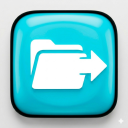
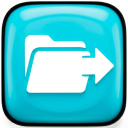
Fix asset embedding: add PRE_BUILD .rc regeneration, build.ps1 -RC, update docs

diff --git a/docs/IMPLEMENTATION.md b/docs/IMPLEMENTATION.md
@@ -82,16 +82,46 @@ All image assets are embedded directly into the executable via a Windows resourc
 
 **Resource script generation:**
 
+The `.rc` file is generated from `resources/FileMove.rc.in` by a CMake `add_custom_command` that depends on all asset files. A `PRE_BUILD` command on the `FileMove` target regenerates the `.rc` before every build, ensuring asset file changes are always picked up by the resource compiler.
+
 ```cmake
-set(FILEMOVE_ASSETS_DIR "${CMAKE_SOURCE_DIR}/assets")
-configure_file(
-    resources/FileMove.rc.in
-    ${CMAKE_BINARY_DIR}/FileMove.rc
-    @ONLY
+set(FILEMOVE_ASSET_FILES
+    assets/icons/FileMove-icon.ico
+    assets/images/about-image.png
+    assets/images/green-check.png
+    assets/images/red-x.png
+    assets/images/orange-question.png
+)
+
+add_custom_command(
+    OUTPUT ${CMAKE_BINARY_DIR}/FileMove.rc
+    COMMAND ${CMAKE_COMMAND}
+        -DFILEMOVE_ASSETS_DIR="${FILEMOVE_ASSETS_DIR}"
+        -DFILEMOVE_SOURCE_DIR="${CMAKE_SOURCE_DIR}"
+        -DFILEMOVE_BINARY_DIR="${CMAKE_BINARY_DIR}"
+        -P "${CMAKE_SOURCE_DIR}/resources/GenerateRc.cmake"
+    DEPENDS
+        resources/FileMove.rc.in
+        resources/GenerateRc.cmake
+        ${FILEMOVE_ASSET_FILES}
+    MAIN_DEPENDENCY resources/FileMove.rc.in
+    COMMENT "Generating FileMove.rc from assets"
+)
+
+add_custom_target(generate_rc DEPENDS ${CMAKE_BINARY_DIR}/FileMove.rc)
+
+add_custom_command(
+    TARGET FileMove PRE_BUILD
+    COMMAND ${CMAKE_COMMAND}
+        -DFILEMOVE_ASSETS_DIR="${FILEMOVE_ASSETS_DIR}"
+        -DFILEMOVE_SOURCE_DIR="${CMAKE_SOURCE_DIR}"
+        -DFILEMOVE_BINARY_DIR="${CMAKE_BINARY_DIR}"
+        -P "${CMAKE_SOURCE_DIR}/resources/GenerateRc.cmake"
+    COMMENT "Regenerating FileMove.rc from assets"
 )
 ```
 
-The `.rc` file is generated from `resources/FileMove.rc.in` with `@FILEMOVE_ASSETS_DIR@` replaced by the actual source path. The Windows resource compiler embeds the assets into the final `.exe`.
+`resources/GenerateRc.cmake` reads the `.rc.in` template, substitutes `@FILEMOVE_ASSETS_DIR@` with the actual source path, and writes the output `.rc`. The `generate_rc` custom target can also be invoked standalone via `cmake --build build --target generate_rc` or `.\build.ps1 -RC`.
 
 **Embedded resources:**
 
@@ -141,12 +171,13 @@ FileMove/
 │       ├── cmdline_parser.h/cpp      # (Phase 2) CLI argument parsing
 │       └── logging.h/cpp             # (Phase 2) Debug console + log file
 ├── resources/
-│   └── FileMove.rc.in                # (Phase 8) Resource script template
+│   ├── FileMove.rc.in                # (Phase 8) Resource script template
+│   └── GenerateRc.cmake              # (Phase 8) CMake script for .rc regeneration
 ├── third-party/
 │   └── nlohmann/
 │       └── json.hpp                  # nlohmann/json v3.11.3 (header-only)
 ├── tests/
-│   └── test_harness.cpp              # (Phase 7) Unit tests (189 tests)
+│   └── test_harness.cpp              # (Phase 7) Unit tests (308 tests)
 ├── assets/
 │   ├── icons/
 │   │   ├── FileMove-icon.ico         # Application icon (embedded at build)
@@ -1094,7 +1125,7 @@ All assets are embedded into the executable at build time via a Windows resource
 **Run:** `build/Release/test_harness.exe`
 **CMake:** `ctest --config Release`
 
-### Test Coverage (189 tests)
+### Test Coverage (308 tests)
 
 **cmdline_parser (45 tests):**
 - Empty command line, valid/invalid `/D` values (MV, CP, case insensitive)
@@ -1137,6 +1168,35 @@ All assets are embedded into the executable at build time via a Windows resource
 - Directory move disabled (rejects directories)
 - Directory move enabled (expands directories recursively)
 
+**settings_persistence (20 tests):**
+- `preserveDirectoryStructure` and `createEmptyDirectories` save/load round-trip
+- Default values for new and empty JSON files
+- Legacy JSON without new settings keys loads with defaults
+
+**copy_vs_move_mode (15 tests):**
+- CP and MV mode entry creation and source file handling
+- Mid-session mode changes reflected in new queue entries
+
+**preserve_directory_structure (40 tests):**
+- Destination path prefixing with structure enabled/disabled
+- Nested directory structure preservation
+- Multiple sources and destinations with structure
+
+**create_empty_directories (35 tests):**
+- Leaf empty directory detection and creation
+- Nested empty directory chains
+- Mixed content directories
+- Disabled mode skips empty directory creation
+
+**find_empty_directories (15 tests):**
+- Deep nesting, empty parent/child directories
+- Multiple separate empty directories in a tree
+- Always recurses into subdirectories before checking emptiness
+
+**source_dest_conflict_structure (8 tests):**
+- File already at structured destination path
+- No-conflict cases with structure preservation
+
 ### Bugs Fixed During Testing
 
 1. **`EnsureDirectoryExists` logic error** — `_waccess` return value was negated incorrectly (`!_waccess()` instead of `_waccess() != 0`), preventing directory creation
@@ -1156,11 +1216,13 @@ All image assets are embedded into the executable at build time via a Windows re
 
 **New files:**
 - `resources/FileMove.rc.in` — Resource script template with `@FILEMOVE_ASSETS_DIR@` macro
+- `resources/GenerateRc.cmake` — CMake script that reads `.rc.in`, substitutes asset paths, and writes `.rc`
 - `src/resources/resource_ids.h` — Shared resource ID definitions (101, 201-204)
 - `src/resources/resource_loader.h/cpp` — `LoadEmbeddedIcon()` and `LoadEmbeddedPng()` helpers
 
 **Modified files:**
-- `CMakeLists.txt` — Added `configure_file` for .rc generation, added resource_loader.cpp and generated .rc to sources, removed `POST_BUILD` asset copy
+- `CMakeLists.txt` — Added `add_custom_command` with asset file dependencies for .rc regeneration, `generate_rc` custom target, `PRE_BUILD` command to regenerate .rc before every build, `resource_loader.cpp` and generated `.rc` to sources, removed `POST_BUILD` asset copy
+- `build.ps1` — Added `-RC` switch to regenerate .rc standalone
 - `main_window.cpp` — Icon loaded via `LoadEmbeddedIcon()` instead of `LoadImageW(LR_LOADFROMFILE)`
 - `about.cpp` — About image loaded via `LoadEmbeddedPng(IDR_ABOUT_IMAGE)` instead of `Image::FromFile()`
 - `group_editor.cpp` — 3-state icons loaded via `LoadEmbeddedPng()` instead of `Image::FromFile()`
@@ -1169,4 +1231,5 @@ All image assets are embedded into the executable at build time via a Windows re
 - `.ico` is embedded as a standard `ICON` resource, so Windows Explorer displays it automatically
 - PNG images are embedded as `RT_RCDATA` resources, loaded at runtime via `IStream` + `Gdiplus::Image::FromStream()`
 - `WIN32_LEAN_AND_MEAN` excludes `<objbase.h>`, so `resource_loader.cpp` must `#include <objbase.h>` before `<gdiplus.h>` to make `IStream` available
-- CMake `configure_file` generates the `.rc` with correct absolute paths to the `assets/` directory
+- `add_custom_command` depends on all asset files, `.rc.in`, and `GenerateRc.cmake` — any change triggers .rc regeneration
+- `build.ps1 -RC` regenerates .rc without a full rebuild

diff --git a/docs/BUILDING.md b/docs/BUILDING.md
@@ -53,7 +53,22 @@ All image assets (icons, PNG images) are embedded directly into the executable a
 - `about-image.png` — About window image
 - `green-check.png`, `red-x.png`, `orange-question.png` — 3-state directory status icons
 
-The CMake `configure_file` step generates the `.rc` file with correct absolute paths to the `assets/` directory, and the Windows resource compiler embeds them into the final `.exe`.
+The `.rc` file is generated from `resources/FileMove.rc.in` by a CMake custom command that depends on all asset files. A `PRE_BUILD` step regenerates the `.rc` before every build, ensuring asset file changes are always picked up by the resource compiler.
+
+### 5. Build Script
+
+`build.ps1` provides a convenient wrapper around CMake:
+
+```powershell
+.\build.ps1                  # Build Release (default)
+.\build.ps1 -Config Debug    # Build Debug
+.\build.ps1 -Clean           # Remove build/ and rebuild Release
+.\build.ps1 -Both            # Build both Release and Debug
+.\build.ps1 -Test            # Build and run unit tests
+.\build.ps1 -RC              # Regenerate .rc resource script from asset files
+```
+
+The `-RC` flag regenerates `build/FileMove.rc` from `resources/FileMove.rc.in` and the current asset files. Use this after modifying any icon or image in `assets/` without doing a full rebuild. The `-RC` step is also run automatically during normal builds when asset files have changed.
 
 ## Building Tests
 
@@ -87,7 +102,13 @@ ctest -C Release
 | file_io | 25 |
 | json_parser | 30 |
 | queue_manager | 89 |
-| **Total** | **189** |
+| settings_persistence | 20 |
+| copy_vs_move_mode | 15 |
+| preserve_directory_structure | 40 |
+| create_empty_directories | 35 |
+| find_empty_directories | 15 |
+| source_dest_conflict_structure | 8 |
+| **Total** | **308** |
 
 ## Linked Libraries
 
@@ -146,7 +167,8 @@ FileMove/
 ├── tests/
 │   └── test_harness.cpp
 ├── resources/
-│   └── FileMove.rc.in
+│   ├── FileMove.rc.in                # Resource script template
+│   └── GenerateRc.cmake              # CMake script for .rc regeneration
 ├── third-party/
 │   └── nlohmann/
 │       └── json.hpp
@@ -165,6 +187,13 @@ Ensure the Windows SDK is installed. In Visual Studio Installer, verify that the
 ### Assets Not Found at Runtime
 
 All assets are now embedded in the executable. If images fail to load, verify the `.rc` file was generated correctly during CMake configuration and that the `assets/` directory exists at build time.
+
+### Updated Asset Not Appearing in Built Executable
+
+The `.rc` file only contains paths to asset files, not their content. When an asset file changes, the `.rc` content remains the same, so MSBuild's resource compiler may not detect the change. The `PRE_BUILD` command in `CMakeLists.txt` regenerates the `.rc` before every build to ensure asset changes are always picked up. If you modified an asset and the change doesn't appear:
+
+1. Run `.\build.ps1` (a full build will regenerate the `.rc` and recompile resources)
+2. If still not appearing, run `.\build.ps1 -Clean` for a clean rebuild
 
 ### Linker Errors for GDI+
 

diff --git a/specs/FileMove-spec-v1.3.0.md b/specs/FileMove-spec-v1.3.0.md
@@ -1061,6 +1061,7 @@ Why this is the chosen platform:
 ```
 FileMove/
 ├── CMakeLists.txt                    # Build configuration (cmake_minimum_required 3.5+)
+├── build.ps1                         # Build script with -RC support
 ├── src/
 │   ├── main.cpp                      # Application entry point
 │   ├── window/                       # Window classes and message handling
@@ -1080,7 +1081,8 @@ FileMove/
 │   │   ├── resource_loader.h/cpp
 │   └── utils/                        # Helpers for logging, parsing, etc.
 ├── resources/
-│   └── FileMove.rc.in                # Resource script template
+│   ├── FileMove.rc.in                # Resource script template
+│   └── GenerateRc.cmake              # CMake script for .rc regeneration
 ├── assets/                           # Source assets (embedded at build time)
 │   ├── icons/
 │   │   ├── FileMove-icon.ico
@@ -1103,9 +1105,12 @@ All image assets must be embedded directly into the executable at build time. Th
 
 - The application icon (`.ico`) must be embedded as a standard Windows `ICON` resource so it displays correctly in Windows Explorer, the taskbar, the title bar, and the Alt-Tab switcher.
 - All PNG images (about image, 3-state status icons) must be embedded as `RT_RCDATA` resources and loaded at runtime via `IStream` + `Gdiplus::Image::FromStream()`.
-- A CMake `configure_file` step must generate the `.rc` file with correct paths to the `assets/` directory.
+- A CMake `add_custom_command` must generate the `.rc` file from `resources/FileMove.rc.in` with correct paths to the `assets/` directory.
+- The `.rc` generation command must depend on all asset files so that changes to any icon or image trigger automatic regeneration.
+- A `PRE_BUILD` command on the `FileMove` target must regenerate the `.rc` before every build to ensure asset file changes are always picked up by the resource compiler.
 - The build must not rely on a `POST_BUILD` step to copy assets to the output directory.
 - The executable must function correctly when placed in any directory without accompanying asset files.
+- `build.ps1 -RC` must regenerate the `.rc` file without a full rebuild.
 
 **Embedded resources:**
 

diff --git a/specs/FileMove-mockups-v1.3.0.md b/specs/FileMove-mockups-v1.3.0.md
@@ -11,6 +11,7 @@
 ```
 FileMove/
 ├── CMakeLists.txt                    # cmake_minimum_required(VERSION 3.5)
+├── build.ps1                         # Build script (supports -RC for .rc regeneration)
 ├── src/
 │   ├── main.cpp                      # Entry point
 │   ├── window/                       # Main and child windows
@@ -28,6 +29,9 @@ FileMove/
 │   └── utils/
 │       ├── logging.h/cpp             # Debug console and log file
 │       └── cmdline_parser.h/cpp      # Command-line argument parsing
+├── resources/
+│   ├── FileMove.rc.in               # Resource script template
+│   └── GenerateRc.cmake             # CMake script for .rc regeneration
 ├── assets/
 │   ├── icons/FileMove-icon.png      # Application icon
 │   ├── images/about-image.png       # About dialog image (128x128)